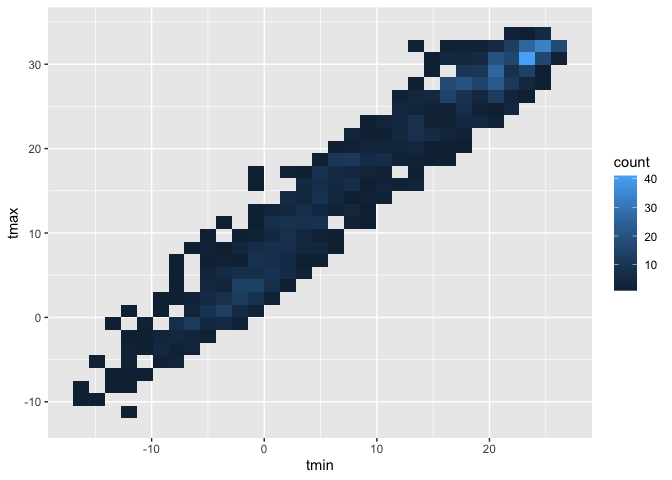
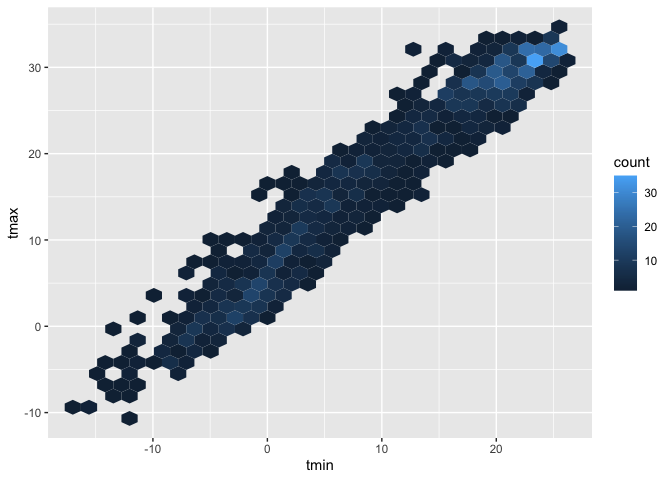
some updates

diff --git a/viz_2.md b/viz_2.md
@@ -160,7 +160,7 @@ weather_df %>%
 
     ## Warning: Removed 15 rows containing missing values (geom_point).
 
-![](viz_2_files/figure-gfm/unnamed-chunk-5-1.png)<!-- -->
+![](viz_2_files/figure-gfm/disencourage%20to%20use%20this-1.png)<!-- -->
 
 ``` r
 weather_df %>% 
@@ -179,7 +179,7 @@ weather_df %>%
 
     ## Warning: Removed 15 rows containing missing values (geom_point).
 
-![](viz_2_files/figure-gfm/unnamed-chunk-6-1.png)<!-- -->
+![](viz_2_files/figure-gfm/encourage%20to%20use%20this-1.png)<!-- -->
 
 ## Themes
 
@@ -203,7 +203,7 @@ weather_df %>%
 
     ## Warning: Removed 15 rows containing missing values (geom_point).
 
-![](viz_2_files/figure-gfm/unnamed-chunk-7-1.png)<!-- -->
+![](viz_2_files/figure-gfm/unnamed-chunk-5-1.png)<!-- -->
 
 Change the overall theme.
 
@@ -228,7 +228,7 @@ weather_df %>%
 
     ## Warning: Removed 15 rows containing missing values (geom_point).
 
-![](viz_2_files/figure-gfm/unnamed-chunk-8-1.png)<!-- -->
+![](viz_2_files/figure-gfm/unnamed-chunk-6-1.png)<!-- -->
 
 ``` r
 weather_df %>% 
@@ -247,7 +247,7 @@ weather_df %>%
   ggthemes::theme_excel()
 ```
 
-![](viz_2_files/figure-gfm/unnamed-chunk-9-1.png)<!-- -->
+![](viz_2_files/figure-gfm/unnamed-chunk-7-1.png)<!-- -->
 
 ## Setting options
 
@@ -263,7 +263,7 @@ knitr::opts_chunk$set(
   out.width = '90%'
 )
 
-theme_set(theme_minimal() + theme(legend.posision = 'bottom'))
+theme_set(theme_minimal() + theme(legend.position = 'bottom'))
 
 options(
   ggplot2.continous.colour = 'viridis_d',
@@ -292,7 +292,7 @@ ggplot(data = waikiki, aes(x = date, y = tmax, color = name)) +
 
     ## Warning: Removed 3 rows containing missing values (geom_point).
 
-![](viz_2_files/figure-gfm/unnamed-chunk-11-1.png)<!-- -->
+![](viz_2_files/figure-gfm/unnamed-chunk-9-1.png)<!-- -->
 
 ## `patchwork`
 
@@ -330,7 +330,7 @@ tmax_tmin_df + prcp_dens_p + tmax_data_p
 
     ## Warning: Removed 3 rows containing missing values (geom_point).
 
-![](viz_2_files/figure-gfm/unnamed-chunk-12-1.png)<!-- -->
+![](viz_2_files/figure-gfm/unnamed-chunk-10-1.png)<!-- -->
 
 ``` r
 ## tmax_tmin_df + (prcp_dens_p + tmax_data_p)
@@ -346,16 +346,16 @@ the name
 ``` r
 weather_df %>% 
   mutate(
-    name = factor(name),
-    name = forcats::fct_relevel(name, c('Waikiki_HA'))
-  ) %>% 
+    name = fct_relevel(name, c('Waikiki_HA'))
+  ) %>%     ##name = fct_reorder(name, tmax) : order according to the median value of tmax
+  ## name = fct_reorder(name, price)  order the name variable according to price
   ggplot(aes(x = name, y = tmax, fill = name)) +
   geom_violin(alpha = .5)
 ```
 
     ## Warning: Removed 3 rows containing non-finite values (stat_ydensity).
 
-![](viz_2_files/figure-gfm/unnamed-chunk-13-1.png)<!-- -->
+![](viz_2_files/figure-gfm/unnamed-chunk-11-1.png)<!-- -->
 
 What if I wanted densities for tmin and tmax simultaneously?
 
@@ -373,4 +373,4 @@ weather_df %>%
 
     ## Warning: Removed 18 rows containing non-finite values (stat_density).
 
-![](viz_2_files/figure-gfm/unnamed-chunk-14-1.png)<!-- -->
+![](viz_2_files/figure-gfm/unnamed-chunk-12-1.png)<!-- -->

diff --git a/viz_1.md b/viz_1.md
@@ -223,7 +223,7 @@ weather_df %>%
   ggplot(aes(x = date, y = tmax, color = name)) +
   geom_point(alpha = .3, aes(size = prcp)) +  ## more percipitation with a larger point
   geom_smooth(se = FALSE) +
-  facet_grid(. ~ name)
+  facet_grid(. ~ name) 
 ```
 
     ## `geom_smooth()` using method = 'loess' and formula 'y ~ x'
@@ -257,12 +257,22 @@ You can use a neat geom!
 ``` r
 weather_df %>% 
   ggplot(aes(x = tmin, y = tmax)) +
+  geom_hex()
+```
+
+    ## Warning: Removed 15 rows containing non-finite values (stat_binhex).
+
+![](viz_1_files/figure-gfm/unnamed-chunk-13-1.png)<!-- -->
+
+``` r
+weather_df %>% 
+  ggplot(aes(x = tmin, y = tmax)) +
   geom_bin2d()
 ```
 
     ## Warning: Removed 15 rows containing non-finite values (stat_bin2d).
 
-![](viz_1_files/figure-gfm/unnamed-chunk-13-1.png)<!-- -->
+![](viz_1_files/figure-gfm/unnamed-chunk-14-1.png)<!-- -->
 
 ## Univaribale plots
 
@@ -276,7 +286,7 @@ weather_df %>%
 
     ## Warning: Removed 15 rows containing non-finite values (stat_bin).
 
-![](viz_1_files/figure-gfm/unnamed-chunk-14-1.png)<!-- -->
+![](viz_1_files/figure-gfm/unnamed-chunk-15-1.png)<!-- -->
 
 ``` r
 weather_df %>% 
@@ -289,7 +299,7 @@ weather_df %>%
 
     ## Warning: Removed 15 rows containing non-finite values (stat_bin).
 
-![](viz_1_files/figure-gfm/unnamed-chunk-15-1.png)<!-- -->
+![](viz_1_files/figure-gfm/unnamed-chunk-16-1.png)<!-- -->
 
 ``` r
 weather_df %>% 
@@ -299,7 +309,7 @@ weather_df %>%
 
     ## Warning: Removed 15 rows containing non-finite values (stat_density).
 
-![](viz_1_files/figure-gfm/unnamed-chunk-16-1.png)<!-- -->
+![](viz_1_files/figure-gfm/unnamed-chunk-17-1.png)<!-- -->
 
 ``` r
 weather_df %>% 
@@ -309,7 +319,7 @@ weather_df %>%
 
     ## Warning: Removed 15 rows containing non-finite values (stat_boxplot).
 
-![](viz_1_files/figure-gfm/unnamed-chunk-17-1.png)<!-- -->
+![](viz_1_files/figure-gfm/unnamed-chunk-18-1.png)<!-- -->
 
 Trendy plots
 
@@ -326,7 +336,7 @@ weather_df %>%
 
     ## Warning: Removed 3 rows containing missing values (geom_segment).
 
-![](viz_1_files/figure-gfm/unnamed-chunk-18-1.png)<!-- -->
+![](viz_1_files/figure-gfm/unnamed-chunk-19-1.png)<!-- -->
 
 Ridge plots – the most popular plot of 2017
 
@@ -340,7 +350,7 @@ weather_df %>%
 
     ## Warning: Removed 15 rows containing non-finite values (stat_density_ridges).
 
-![](viz_1_files/figure-gfm/unnamed-chunk-19-1.png)<!-- -->
+![](viz_1_files/figure-gfm/unnamed-chunk-20-1.png)<!-- -->
 
 ## Save and Embed.
 
@@ -365,7 +375,7 @@ weather_plot
 
     ## Warning: Removed 15 rows containing missing values (geom_point).
 
-![](viz_1_files/figure-gfm/unnamed-chunk-21-1.png)<!-- -->
+![](viz_1_files/figure-gfm/unnamed-chunk-22-1.png)<!-- -->
 
 Embed at different size.
 
@@ -375,4 +385,4 @@ weather_plot
 
     ## Warning: Removed 15 rows containing missing values (geom_point).
 
-![](viz_1_files/figure-gfm/unnamed-chunk-22-1.png)<!-- -->
+![](viz_1_files/figure-gfm/unnamed-chunk-23-1.png)<!-- -->
